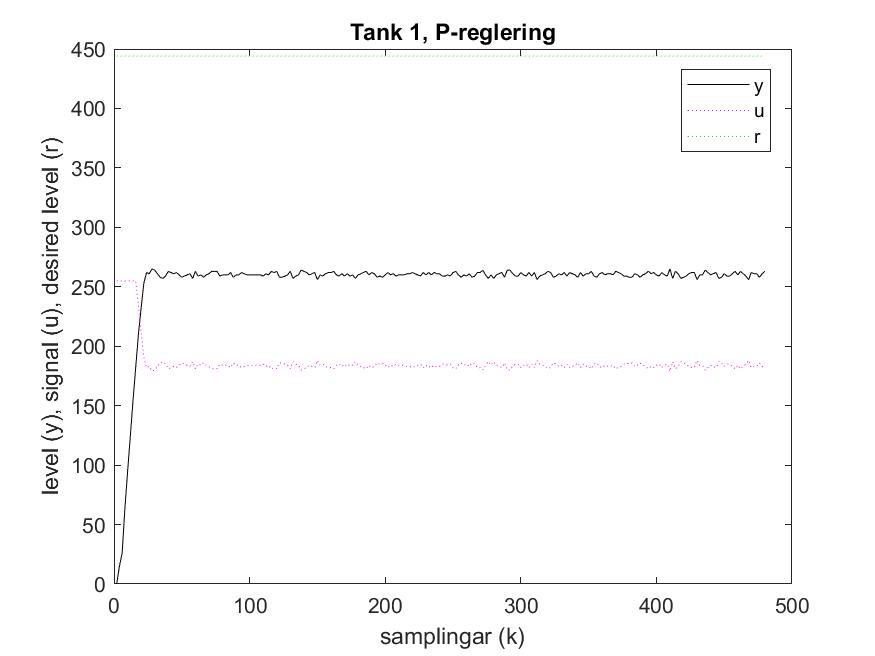
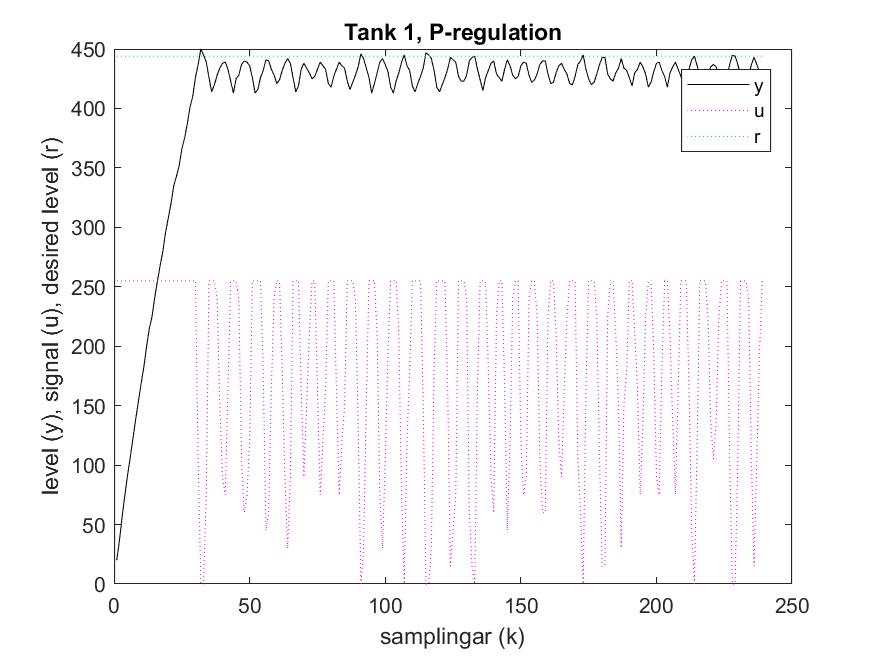
jobbar med zieger-nichols

diff --git a/steg_svar.m b/steg_svar.m
@@ -3,13 +3,13 @@
 
 %keepvars = {'a'};
 clear all
-a = arduino_com('COM3');
+a = arduino_com('COM9');
 %clearvars('-except', keepvars{:});
 
 
 % Constant parameter values
 N = 60*4;  % total samples
-dT = 1;     % sampling time
+dT = 2;     % sampling time
 bv1 = 60;   % desired level, in procent (0-100), for tank 1
 bv2 = 30;   % desired level, in procent (0-100), for tank 2
 OFF = 0;
@@ -42,9 +42,10 @@ if(KLTMethod == ON)
     tumRegelMetoder = OFF;
 end
 
-regulatorType = regulator(2).Type;
-saveFileVariables = '.\data\P.3.1.1.b_ziegler-nichols_undre_vattentank.mat';
-saveFileFigure = '.\bilder\P.3.1.1.b_ziegler-nichols_undre_vattentank.jpg';
+
+regulatorType = regulator(4).Type;
+saveFileVariables = '.\data\P.3.1.1.b_zieger-nichols_k5_pid_undre_vattentank.mat';
+saveFileFigure = '.\bilder\P.3.1.1.b_zieger-nichols_k5_pid_undre_vattentank.jpg';
 loop = 1;
 m = 100; % control output power of pumpmotor (0% - 100%)
 
@@ -60,9 +61,8 @@ while(loop)
     
     if(tank2 == ON)
         disp('Regulating tank 2...')
-        
-        if(tumRegelMetoder == ON)
-            [y,u,t] = P311_ziegler_nichols(a,N,dT,p2,bv2,1,10^40,0,saveFileFigure);
+        if(tumRegelMetoder == ON) %
+            [y,u,t] = P311_ziegler_nichols(a,N,dT,p2,bv2,5,10^40,0,saveFileFigure);
         else
             [y,u,t] = function_regulator(a, N, dT, bv2, p2, m, regulatorType, saveFileFigure);
         end
@@ -73,9 +73,9 @@ while(loop)
     if(KLTMethod == ON)
         load(saveFileVariables)
         F131_KLT(a, y, u, t)
-        
-        analogWrite(a,0,'DAC0')
-        loop = loop - 1;
     end
+    
+    analogWrite(a,0,'DAC0')
+    loop = loop - 1;
     
 end

diff --git a/P311_ziegler_nichols.m b/P311_ziegler_nichols.m
@@ -58,10 +58,10 @@ for k=1:N % the loop will run N times, each time takes exactly dT seconds
     
     
     % --------------- update control signal and write to DAC0 ---------------
-    if(mod(k, 300) == 0)
-        K = K * 2;
-        disp("changing K to: " + K)
-    end
+    %if(mod(k, 300) == 0)
+     %   K = K * 2;
+      %  disp("changing K to: " + K)
+    %end
     
     if k>1 % we can not assume a value that does not exist yet
         u(k) = K * ( e(k) + dT/TI * sum(e) + TD * (e(k)-e(k-1))/dT );
@@ -96,6 +96,9 @@ end % -for (end of the samples)
 
 % PART E: end experiment
 analogWrite(a,0,'DAC0'); % turn pump off
+
+
+
 
 
 % plot a final picture

diff --git a/function_regulator.m b/function_regulator.m
@@ -4,7 +4,7 @@ switch(regulatorType)
     case 'twoStateRegulator'
         [y,u,t] = F211_TwoState(a,N,dT,p,m,bv, saveFile);
     case 'p_regulator'
-        [y,u,t] = F221_proportionalRegulation(a,N,dT,p,bv,1,saveFile);
+        [y,u,t] = F221_proportionalRegulation(a,N,dT,p,bv,15,saveFile);
     case 'pi_regulator'
         [y,u,t] = F241_PI_regulation(a,N,dT,p,bv,0.8,4,saveFile);
     case 'pid_regulator'%argument -> (a,N,dT,p,bv,K,TI,TD,saveFile)

diff --git a/amigo.m b/amigo.m
@@ -1,0 +1,7 @@
+function [K, TI, TD] = amigo(file)
+
+K = (1/Ks)*(0.2+0.45*T/L);
+
+
+end
+
